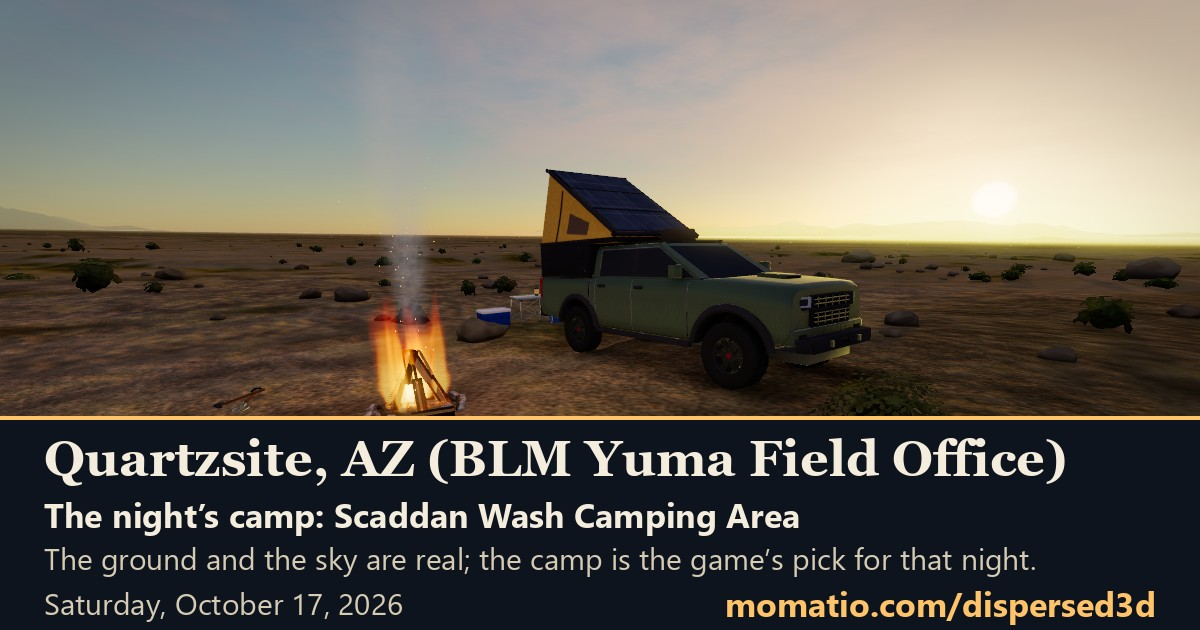
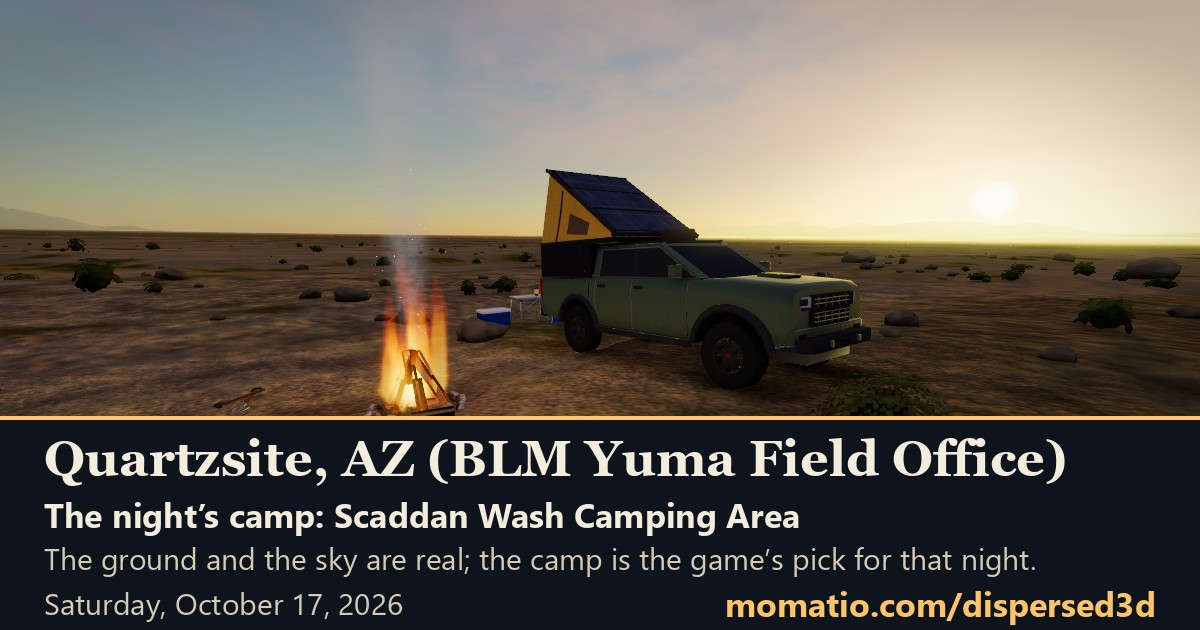
Release 2026-10-17b: the fire goes dead out before bed, and the game's lines take turns

Changed region(s): [[0.3083, 0.4222, 0.4008, 0.6635], [0.7092, 0.6333, 0.7708, 0.6635]]

diff --git a/README.md b/README.md
@@ -32,14 +32,14 @@ This is a game laid over real places, and the real places do most of the work. H
 
 ## What's new
 
-**October 17, 2026, early morning: A clear windshield: nothing in the way while you drive**
+**October 17, 2026, late evening: The fire goes dead out before bed, and the game's lines take turns**
 
-- About a second and a half after the truck starts rolling, the screen clears. Left in the corner: Info, the speed (x1, x4, x12) and Stop on a Self Drive, and only Info when you drive by hand. A message that matters shows as one thin line; the game's teaching lines wait until you stop. Info brings everything back while you roll
-- Each night's note writes itself from what the game recorded, and you can change it; your words are kept as yours
-- Dave's own way at the creek: Dr. Bronner's lavender (skeeters don't like it), 200 feet from the water. One gallon of water a day is his number from his trips
-- Parked at camp with the engine off, at dusk or first light, a mule deer (an elk where elk live) may step to the edge of the clearing. It is the game's chance, said as the game's, not a sighting
-- A new line on the night card: how long the sun is off this camp behind its own ridges (USGS ground), and how long the woodpile lasts
-- Smoother edges on every phone, and fixes from a player who started cold: the clear windshield works after the first night too, old lines no longer pop up the next morning, and a fire that burned out on its own is never written up as put out with water
+- Settle in for the night with a fire lit or its coals still warm, and a card walks you through the Forest Service's steps first: drown it, stir it, feel for heat. You can still turn in and leave it burning, and the morning card says so honestly
+- The game's lines take turns: a teaching line that comes up while you roll waits until you stop, a line that is no longer true is dropped, and a line never pushes another off the screen
+- Every Self Drive starts with one line: how far, about how long, and whether you will get there in daylight or after dark
+- The water jug says when it runs low and when it is empty, once each, with the real ways to fill it. Filling the jug, or a run to town, clears the warning
+- Stay today is only on the morning card, and the evening buttons say what they do: Stay up and walk around camp, or Sit by the fire while the hours go by
+- The four-night trip ends on its own card and shows which night you are on. On phones, nothing covers the open More drawer and the trip card's first line clears the Close button
 
 [Every release, in the changelog](https://github.com/davelalande/dispersed3d-progress/blob/main/CHANGELOG.md)
 

diff --git a/CHANGELOG.md b/CHANGELOG.md
@@ -2,6 +2,15 @@
 
 Every release of the live game, newest first. Play it at **[momatio.com/dispersed3d](https://momatio.com/dispersed3d/)**.
 
+## October 17, 2026, late evening: The fire goes dead out before bed, and the game's lines take turns
+
+- Settle in for the night with a fire lit or its coals still warm, and a card walks you through the Forest Service's steps first: drown it, stir it, feel for heat. You can still turn in and leave it burning, and the morning card says so honestly
+- The game's lines take turns: a teaching line that comes up while you roll waits until you stop, a line that is no longer true is dropped, and a line never pushes another off the screen
+- Every Self Drive starts with one line: how far, about how long, and whether you will get there in daylight or after dark
+- The water jug says when it runs low and when it is empty, once each, with the real ways to fill it. Filling the jug, or a run to town, clears the warning
+- Stay today is only on the morning card, and the evening buttons say what they do: Stay up and walk around camp, or Sit by the fire while the hours go by
+- The four-night trip ends on its own card and shows which night you are on. On phones, nothing covers the open More drawer and the trip card's first line clears the Close button
+
 ## October 17, 2026, early morning: A clear windshield: nothing in the way while you drive
 
 - About a second and a half after the truck starts rolling, the screen clears. Left in the corner: Info, the speed (x1, x4, x12) and Stop on a Self Drive, and only Info when you drive by hand. A message that matters shows as one thin line; the game's teaching lines wait until you stop. Info brings everything back while you roll
